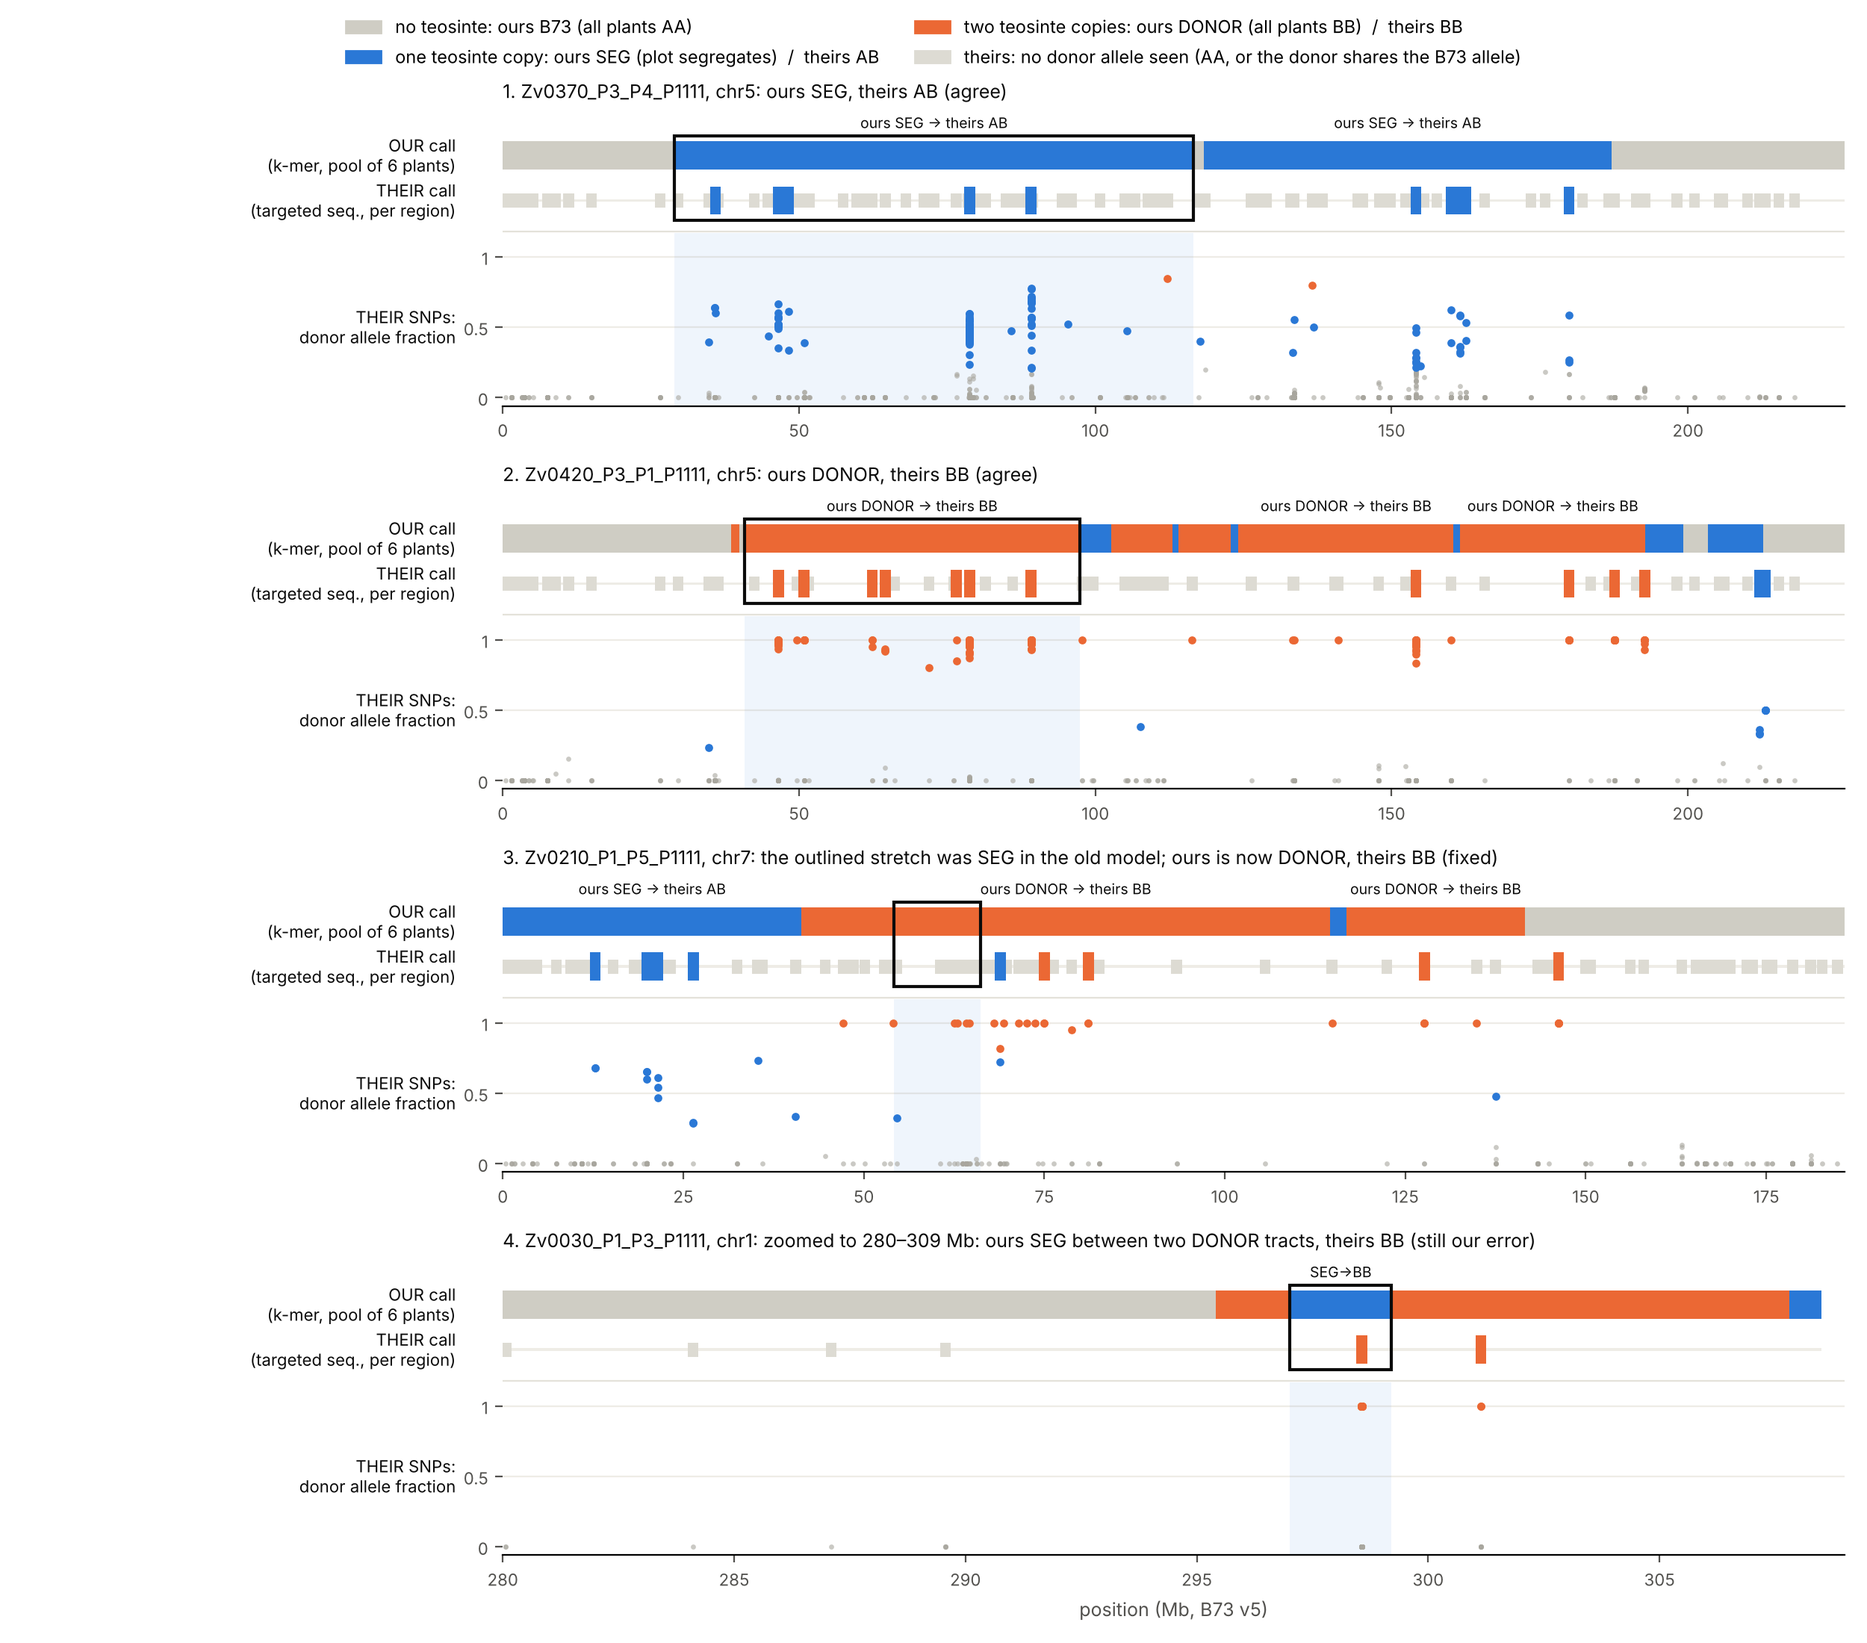
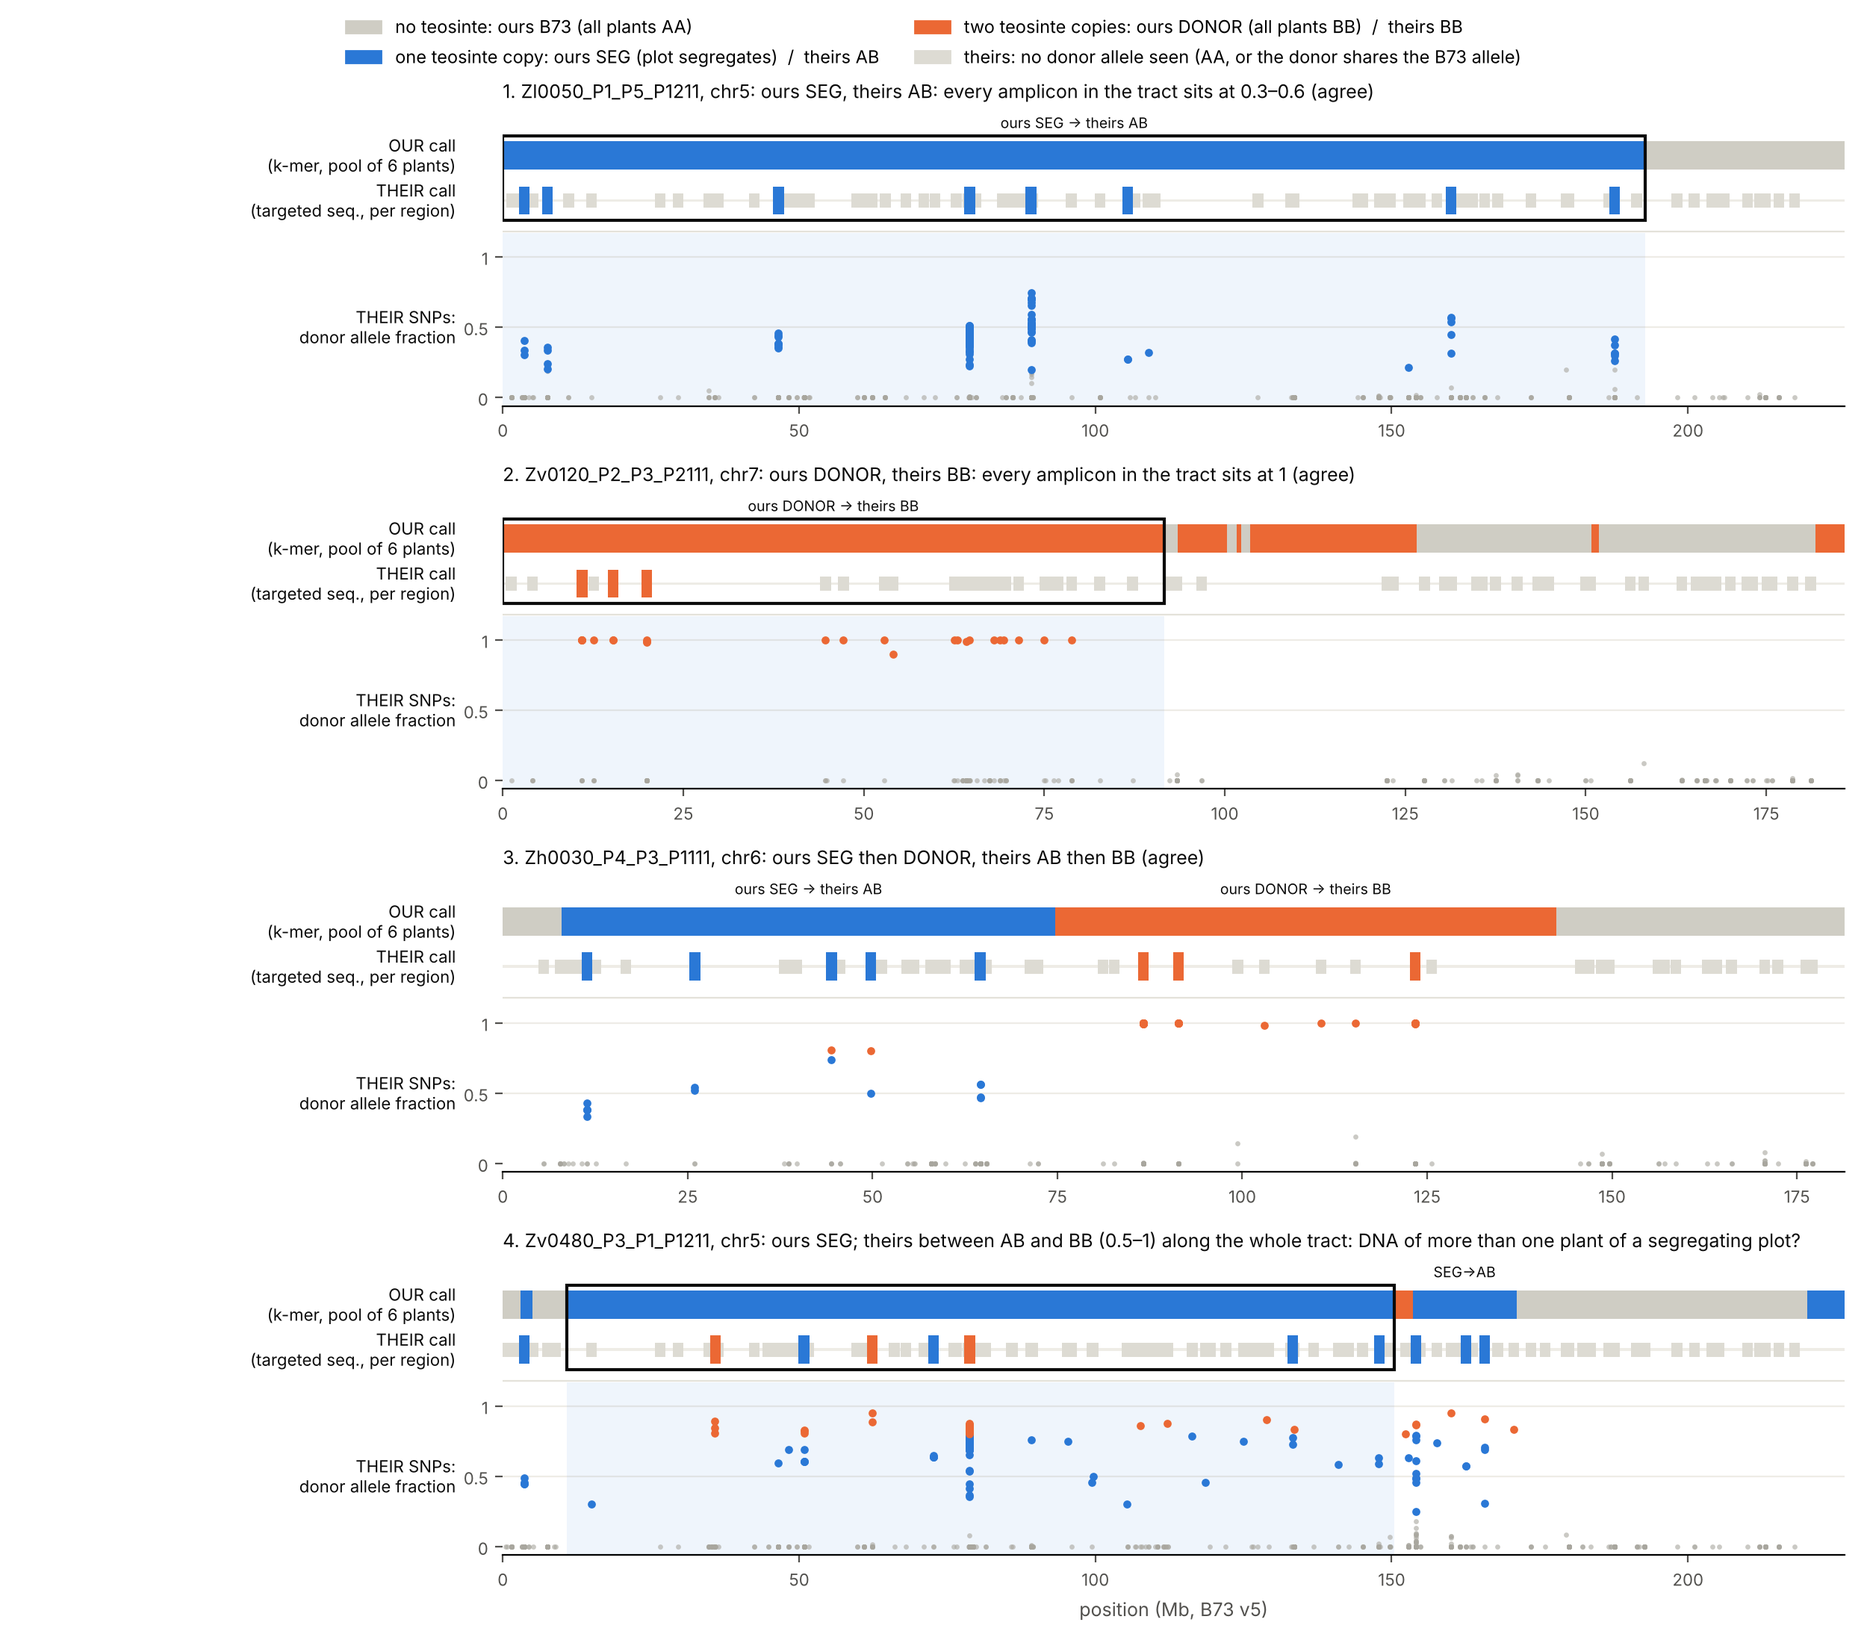
Targeted-seq examples: four good and four bad, with per-amplicon reading in the README

diff --git a/final_script/34f_targseq_examples.py b/final_script/34f_targseq_examples.py
@@ -18,7 +18,8 @@ Usage (the README figure):
   python final_script/34f_targseq_examples.py --sites data/introgression_fix1/targseq/sites_used.tsv.gz \
      --tracts data/introgression_fix1/tracts_all.tsv.gz --targseq_tracts data/introgression_fix1/targseq/tracts_targseq.tsv \
      --out figures/fix1/targseq_examples.png   [--example SAMPLE:CHR[@FROM-TO]:START_MB:END_MB:"title" ...]
-     (@FROM-TO: zoom the panel to FROM-TO Mb; without --example the four README examples below)
+     (@FROM-TO: zoom the panel to FROM-TO Mb; empty START_MB:END_MB = no outline; without --example the README examples
+      below: --set good, or --set bad --out figures/fix1/targseq_examples_bad.png)
   All samples, one figure each (every chromosome with an introgression): the same with --gallery_dir figures/fix1/targseq_all
 Needs: numpy, pandas, matplotlib.
 """
@@ -30,12 +31,17 @@ matplotlib.use("Agg")
 import matplotlib.pyplot as plt
 from matplotlib.patches import Rectangle
 
-EX = [
-    "Zv0370_P3_P4_P1111:chr5:28.99:116.57:ours SEG, theirs AB (agree)",
-    "Zv0420_P3_P1_P1111:chr5:40.79:97.37:ours DONOR, theirs BB (agree)",
-    "Zv0210_P1_P5_P1111:chr7:54.18:66.18:the outlined stretch was SEG in the old model; ours is now DONOR, theirs BB (fixed)",
-    "Zv0030_P1_P3_P1111:chr1@280-309:297.01:299.21:zoomed to 280–309 Mb: ours SEG between two DONOR tracts, theirs BB (still our error)",
-]
+EX = {"good": [
+    "Zl0050_P1_P5_P1211:chr5:0:192.84:ours SEG, theirs AB: every amplicon in the tract sits at 0.3–0.6 (agree)",
+    "Zv0120_P2_P3_P2111:chr7:0:91.57:ours DONOR, theirs BB: every amplicon in the tract sits at 1 (agree)",
+    "Zh0030_P4_P3_P1111:chr6:::ours SEG then DONOR, theirs AB then BB (agree)",
+    "Zv0480_P3_P1_P1211:chr5:10.80:150.45:ours SEG; theirs between AB and BB (0.5–1) along the whole tract: DNA of more than one plant of a segregating plot?",
+], "bad": [
+    "Zd0010_P3_P4_P2311:chr3:28.29:156.75:ours DONOR, theirs AB (our error: the plot probably segregates)",
+    "Zv0030_P1_P3_P1111:chr1@280-309:297.01:299.21:zoomed to 280–309 Mb: ours SEG between two DONOR tracts, theirs BB (our error, at the chr1 297 Mb hotspot)",
+    "Zv0370_P3_P4_P1111:chr1@270-309:297.01:308.51:zoomed to 270–309 Mb: our SEG tract ends at 297 Mb, theirs AB at 299 Mb (our tract ends too early)",
+    "Zv0420_P3_P1_P1111:chr9@0-60:1.40:21.19:zoomed to 0–60 Mb: ours DONOR; theirs BB at 6 and 11 Mb, but one dense amplicon (0.2–0.7) makes the tract AB",
+]}
 ap = argparse.ArgumentParser()
 ap.add_argument("--sites", required=True)
 ap.add_argument("--tracts", required=True)
@@ -43,8 +49,9 @@ ap.add_argument("--out", default="")
 ap.add_argument("--gallery_dir", default="", help="one figure per sample (all its introgressed chromosomes) instead of the examples")
 ap.add_argument("--targseq_tracts", default="", help="34d tracts_targseq.tsv: label each tract with its targeted-seq genotype (gallery)")
 ap.add_argument("--example", action="append", default=None)
+ap.add_argument("--set", default="good", choices=["good", "bad"], help="built-in examples when no --example is given")
 a = ap.parse_args()
-ex = [e.split(":", 4) for e in (a.example or EX)]
+ex = [e.split(":", 4) for e in (a.example or EX[a.set])]
 GREY, BLUE, ORANGE, INK, MUTED, PALE = "#cfcdc4", "#2a78d6", "#eb6834", "#0b0b0b", "#52514e", "#a8a69e"
 COL = {"B73": GREY, "SEG": BLUE, "DONOR": ORANGE}
 
@@ -173,7 +180,7 @@ if a.gallery_dir:
 else:
     fig, axes = plt.subplots(len(ex), 1, figsize=(12.5, 2.75 * len(ex)))
     for k, (ax, (smp, ch, s0, e0, title)) in enumerate(zip(np.atleast_1d(axes), ex)):
-        draw(ax, smp, ch, float(s0), float(e0), f"{k + 1}. {smp}, {ch.split('@')[0]}: {title}", labs(smp, ch))
+        draw(ax, smp, ch, float(s0) if s0 else None, float(e0) if e0 else None, f"{k + 1}. {smp}, {ch.split('@')[0]}: {title}", labs(smp, ch))
     np.atleast_1d(axes)[-1].set_xlabel("position (Mb, B73 v5)", fontsize=9, color=MUTED)
     legend(fig)
     fig.tight_layout(rect=(0.12, 0, 1, 0.965))

diff --git a/README.md b/README.md
@@ -759,7 +759,7 @@ All 83 samples. First model (85 samples): B73 96.5 / 2.9 / 0.6%, SEG 21.2 / **71
 
    **The errors sit at the same places in many pools.** Counting, for every 1-Mb bin, the pools whose SEG tract between two DONOR tracts covers it, the first model had four hotspots: chr6 21–23 Mb (48 pools), chr1 297 Mb (28), chr7 54–65 Mb (28) and chr3 75–78 Mb (19). This is what led to the current model (2.6.6), which brings them to 9, 11, 14 and 8 pools:
    - **chr6 and chr1: the DONOR level was wrong.** There, our donors keep more of the B73 k-mers than the assembly plants, so a DONOR window read like SEG. The DONOR level learned from all our pools removes most of these errors.
-   - **chr7 and chr3: too little contrast.** There, the teosinte keeps 61–78% of the B73 k-mers, so with all B73 k-mers counted a DONOR window scores almost like a SEG window (about one noise unit apart in *parviglumis* chr7). Counting only the informative k-mers raised the contrast (*parviglumis* chr7: 1.2 → 2.6) and turned most chr7 islands into DONOR (example 3 below). ***parviglumis* chr3 75–78 Mb is not fixed:** its islands read halfway between DONOR and SEG in every count, all B73 k-mers or informative only, so the problem there is not contrast; it may be family-specific teosinte haplotypes that share these k-mers with B73. The targeted sequencing at chr3 70–81 Mb is mixed (BB in some plots, AA or AB in others; most of them *mexicana*).
+   - **chr7 and chr3: too little contrast.** There, the teosinte keeps 61–78% of the B73 k-mers, so with all B73 k-mers counted a DONOR window scores almost like a SEG window (about one noise unit apart in *parviglumis* chr7). Counting only the informative k-mers raised the contrast (*parviglumis* chr7: 1.2 → 2.6) and turned most chr7 islands into DONOR (e.g. `Zv0210_P1_P5_P1111` chr7 at 54–66 Mb, in the gallery below). ***parviglumis* chr3 75–78 Mb is not fixed:** its islands read halfway between DONOR and SEG in every count, all B73 k-mers or informative only, so the problem there is not contrast; it may be family-specific teosinte haplotypes that share these k-mers with B73. The targeted sequencing at chr3 70–81 Mb is mixed (BB in some plots, AA or AB in others; most of them *mexicana*).
    - None of the QTL that hold in the joint model lies in these four regions.
 
    **Contrast: how far apart DONOR and SEG are in one window.** The HMM separates DONOR from SEG by the gap between their expected scores, about (1 − d_w) × g(½), where d_w is the share of B73 k-mers the teosinte keeps in the window. Divided by the window's noise, this gives the contrast: how many noise units apart the two states are. Measured from our pools (windows with at least 5 pools called DONOR; median, and share of windows below 3):
@@ -781,14 +781,23 @@ All 83 samples. First model (85 samples): B73 96.5 / 2.9 / 0.6%, SEG 21.2 / **71
 
 **The text above our row is the comparison**, one per tract of ours that the targeted sequencing calls clearly: "ours SEG → theirs AB" means we call the pool SEG there and the plant is AB over that tract (step 34d, from all its SNPs, not from single dots or boxes). Short tracts get the short form "SEG→AB". What to expect: our B73 → theirs AA and our DONOR → theirs BB, because every plant of such a plot must carry that genotype. Our SEG means the plot segregates, so one plant of it can be AA, AB or BB (1 : 2 : 1); a single "ours SEG → theirs AA" or "→ theirs BB" is therefore not an error. Only the proportions over all SEG tracts can be checked (point 4, and "One plant or a bulk?" below).
 
-The outlined tract is the one in the title.
+The outlined tract is the one in the title. **Four good examples:**
 
-![Our k-mer calls against the targeted sequencing, four examples](figures/fix1/targseq_examples.png)
+![Our k-mer calls against the targeted sequencing, four good examples](figures/fix1/targseq_examples.png)
 
-1. **We call SEG; the targeted sequencing says AB. They agree** (`Zv0370_P3_P4_P1111`, chr5 29–117 Mb): the SNPs that carry donor alleles sit at 0.3–0.7, none at 0.8 or above.
-2. **We call DONOR; the targeted sequencing says BB. They agree** (`Zv0420_P3_P1_P1111`, chr5 41–97 Mb): the SNPs that carry donor alleles sit at about 1.
-3. **An error of the first model, fixed** (`Zv0210_P1_P5_P1111`, *parviglumis*, chr7). The first model called a SEG island at 54–66 Mb (outlined), inside a DONOR block, at the chr7 hotspot (point 7). The targeted sequencing has SNPs at about 1 there (BB), and the current model, with the informative k-mers, calls one DONOR tract from 41 to 115 Mb.
-4. **The remaining error** (`Zv0030_P1_P3_P1111`, *parviglumis*, chr1, zoomed to 280–309 Mb). We still call a 2.2-Mb SEG tract between two DONOR tracts at the chr1 297 Mb hotspot; the targeted sequencing has SNPs at about 1 there (BB), like the DONOR beside it.
+1. **Ours SEG, theirs AB** (`Zl0050_P1_P5_P1211`, chr5 0–193 Mb). Every amplicon with donor alleles in the tract sits at 0.3–0.6 (104 donor-carrying SNPs, median 0.42).
+2. **Ours DONOR, theirs BB** (`Zv0120_P2_P3_P2111`, chr7 0–92 Mb). Every amplicon with donor alleles sits at about 1 (24 SNPs, median 1.0), and the B73 rest of the chromosome has none.
+3. **Ours SEG then DONOR, theirs AB then BB** (`Zh0030_P4_P3_P1111`, chr6). SEG at 8–75 Mb is AB (median 0.50), DONOR at 75–142 Mb is BB (median 1.0).
+4. **Ours SEG; theirs between AB and BB along the whole tract** (`Zv0480_P3_P1_P1211`, chr5 11–150 Mb). The 23 amplicons with donor alleles sit anywhere from 0.3 to 0.9, most at 0.6–0.9 (99 SNPs, median 0.78, so step 34d calls the tract "unclear"). One plant cannot switch between AB and BB this often within one tract, and this sample is clean (no stray donor alleles in its B73 tracts, unlike the contaminated `Zv0480_P3_P2_P1211` of point 6). A fraction of about 0.7 all along fits DNA of several plants of a segregating plot, e.g. 6 plants carrying 8–9 of their 12 copies as teosinte. Our SEG call fits that plot. This example is evidence that at least some targeted-sequencing DNA is not one plant (see "One plant or a bulk?" below).
+
+**Four bad examples** (the three bad samples of point 6 left out):
+
+![Our k-mer calls against the targeted sequencing, four bad examples](figures/fix1/targseq_examples_bad.png)
+
+1. **Ours DONOR, theirs AB** (`Zd0010_P3_P4_P2311`, chr3 28–157 Mb). 16 amplicons with donor alleles, most at 0.3–0.7 (38 SNPs, median 0.60; only 7 at 0.8 or above). The plot most likely segregates here and our pool read too high, e.g. a pool that by chance held few AA plants (2.9.1, point 4). This is the largest DONOR → AB tract of the 80 good samples.
+2. **Ours SEG between two DONOR tracts, theirs BB** (`Zv0030_P1_P3_P1111`, chr1, zoomed to 280–309 Mb). The systematic error of point 7, at the chr1 297 Mb hotspot: our 2.2-Mb SEG tract has SNPs at about 1, like the DONOR beside it.
+3. **Our tract ends too early** (`Zv0370_P3_P4_P1111`, chr1, zoomed to 270–309 Mb). Our SEG tract ends at 297.0 Mb; the targeted sequencing finds an AB amplicon at 298.6 Mb (11 SNPs, median 0.41), inside what we call B73. The donor tract probably goes on for at least 1.5 Mb. This is a boundary error near the same chr1 hotspot.
+4. **A disagreement made by the check itself** (`Zv0420_P3_P1_P1111`, chr9, zoomed to 0–60 Mb). We call DONOR at 1.4–21 Mb. Two amplicons say BB (6.3 Mb: 18 SNPs at 0.98; 10.8 Mb: 2 SNPs at 0.90) and one says AB (18.7 Mb: 54 SNPs at 0.47). Because step 34d takes the median over SNPs, the one dense amplicon outvotes the other two, and the tract counts as DONOR → AB. Counted per amplicon it would be BB at two of three places. So part of the "ours DONOR → theirs AB" share (3%) can come from single amplicons with many SNPs, not from our calls.
 
 <details><summary>All 83 samples: every chromosome with an introgression (one figure per sample)</summary>
 
@@ -885,11 +894,12 @@ Same three rows and the same "ours → theirs" labels as above, for every chromo
 **One plant or a bulk?** This matters only for the SEG row, and it waits for confirmation of what DNA was sequenced:
 - **If it is one plant of the plot,** a SEG plot's plant should be AA : AB : BB = 25 : 50 : 25 (child of an AB mother). We see 9 : 83 : 9 among the clearly called tracts (21 : 71 : 8 in the first model), which would mean both homozygotes are strongly depleted. An AB plant's donor allele fraction should also centre on 0.5; we see 0.45 (middle half of the well-covered tracts 0.36–0.52).
 - **If it is a bulk of several plants,** the SEG fraction should be about 0.46, which is what we see, and nearly all SEG tracts would look intermediate (AB), which is also what we see.
+- Single samples point the same way: in good example 4 (`Zv0480_P3_P1_P1211`, chr5) the fraction sits between AB and BB at amplicon after amplicon, which one plant cannot do.
 - The data lean towards a bulk, but the B73 and DONOR rows hold either way: they are the validation.
 
-**Limits.** Only tracts of 1 Mb or more were compared, so short tracts are still unchecked; many tracts had too few panel SNPs for a clear call (31–55% unclear); and two samples were not aligned (one had only an R2 file, one job ran out of time) and were not rerun.
+**Limits.** A tract's call is the median over its SNPs, so one amplicon with many SNPs can outvote the rest (bad example 4); counting per amplicon would be fairer and is not done yet. Only tracts of 1 Mb or more were compared, so short tracts are still unchecked; many tracts had too few panel SNPs for a clear call (31–55% unclear); and two samples were not aligned (one had only an R2 file, one job ran out of time) and were not rerun.
 
-Scripts: `final_script/34_targseq_align.sh`, `34b_targseq_call.sh`, `34c_targseq_compare.py` (site-level comparison), `34d_targseq_tracts.py` (tracts), `34e_targseq_figure.py` (summary figure), `34f_targseq_examples.py` (example panels; `--gallery_dir` for all samples). Results: `data/introgression_fix1/targseq/` (`tracts_targseq.tsv`, `hidden_b73_windows.tsv`, `per_sample.tsv`, `sites_used.tsv.gz`); the comparison of the models: `data/introgression_fix1/model/compare_old_new.txt`.
+Scripts: `final_script/34_targseq_align.sh`, `34b_targseq_call.sh`, `34c_targseq_compare.py` (site-level comparison), `34d_targseq_tracts.py` (tracts), `34e_targseq_figure.py` (summary figure), `34f_targseq_examples.py` (example panels: `--set good`, `--set bad`; `--gallery_dir` for all samples). Results: `data/introgression_fix1/targseq/` (`tracts_targseq.tsv`, `hidden_b73_windows.tsv`, `per_sample.tsv`, `sites_used.tsv.gz`); the comparison of the models: `data/introgression_fix1/model/compare_old_new.txt`.
 
 ### 2.10 Population structure from k-mers (step 32)
 
@@ -1298,6 +1308,9 @@ MODEL=fix1 TRAITS="DTS DTA ASI PH EH EN BW BL SL SPAD SPAD2 Prolif Kinki NBR LAE
 bash new_model/fix1/fx1_8_laptop.sh
 #   genes + GO (30), genes per QTL (33a), SuSiE fine-mapping (33) and PIPs into the gene tables (33b),
 #   side-by-side figures (31), DTS by year (31b), landscape (24b), targeted sequencing (34e), k-mer PCA (32c), checks (incl. relatives, 24c)
+T="--sites data/introgression_fix1/targseq/sites_used.tsv.gz --tracts data/introgression_fix1/tracts_all.tsv.gz --targseq_tracts data/introgression_fix1/targseq/tracts_targseq.tsv"
+python final_script/34f_targseq_examples.py $T --set good --out figures/fix1/targseq_examples.png       # the four good examples
+python final_script/34f_targseq_examples.py $T --set bad --out figures/fix1/targseq_examples_bad.png    # the four bad examples
 python final_script/34f_targseq_examples.py --sites data/introgression_fix1/targseq/sites_used.tsv.gz \
   --tracts data/introgression_fix1/tracts_all.tsv.gz --gallery_dir figures/fix1/targseq_all \
   --targseq_tracts data/introgression_fix1/targseq/tracts_targseq.tsv          # all targeted-sequencing samples
